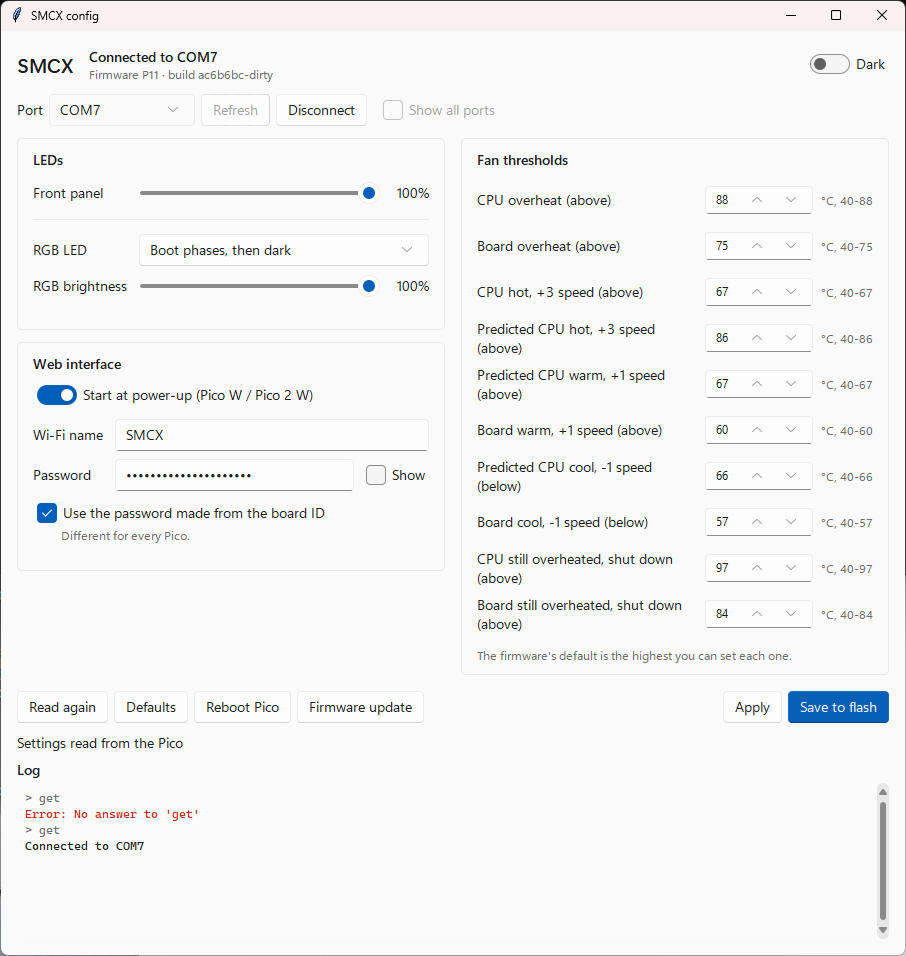
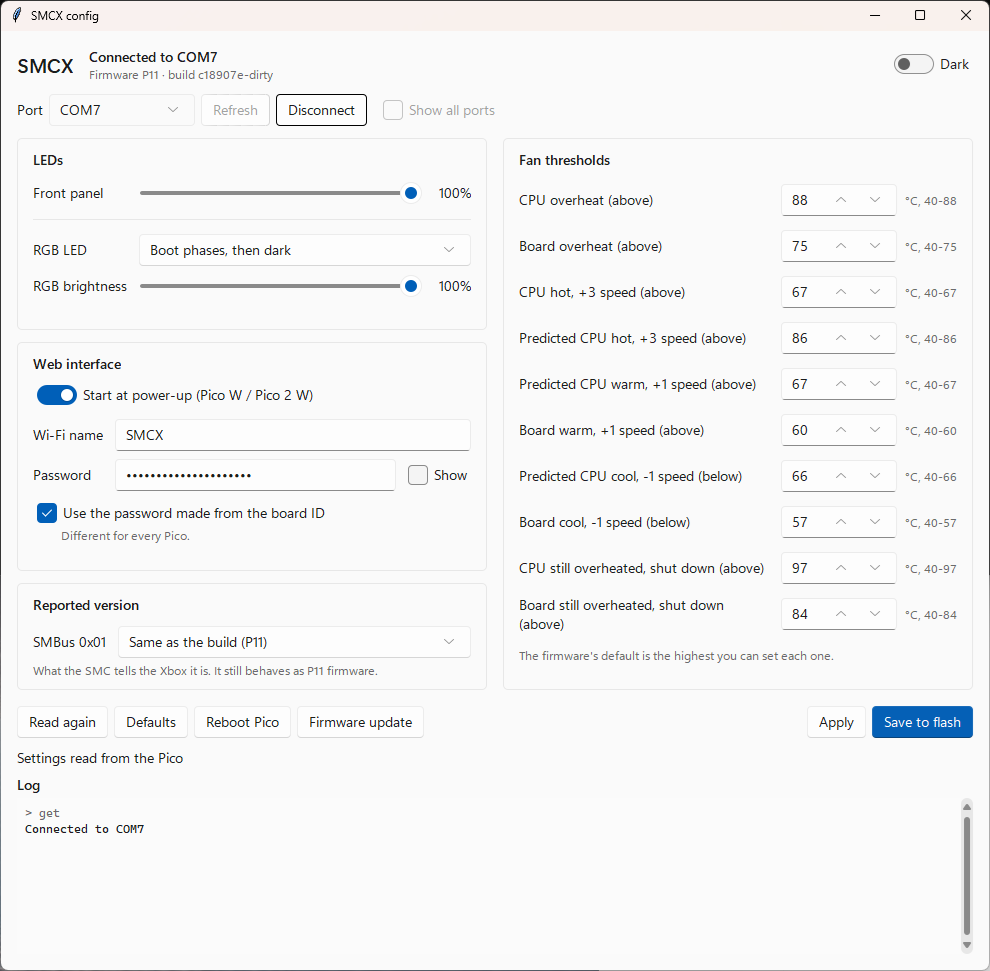
CI fix

diff --git a/tools/smcx_config_gui.py b/tools/smcx_config_gui.py
@@ -1,4 +1,3 @@
-#!/usr/bin/env python3
 """Configure the SMCX over USB serial, in a window.
 
 The same settings as tools/smcx_config.py, with the same rule: only with the
@@ -33,6 +32,27 @@ except ImportError:
 TITLE = "SMCX config"
 
 REPORT_VERSIONS = ("P01", "P11", "D01", "DXF", "P2L")
+
+# The P01/P11 fan thresholds (src/smc_fan_pic.cpp, threshold_entries) with the
+# P11 defaults, shown before connecting. The rows stay and only take the
+# Pico's values when it has the same list; a P2L firmware has its own.
+PIC_THRESHOLDS = [
+    {"index": i, "label": label, "value": default, "default": default, "min": 40}
+    for i, (label, default) in enumerate(
+        [
+            ("CPU overheat (above)", 88),
+            ("Board overheat (above)", 75),
+            ("CPU hot, +3 speed (above)", 67),
+            ("Predicted CPU hot, +3 speed (above)", 86),
+            ("Predicted CPU warm, +1 speed (above)", 67),
+            ("Board warm, +1 speed (above)", 60),
+            ("Predicted CPU cool, -1 speed (below)", 66),
+            ("Board cool, -1 speed (below)", 57),
+            ("CPU still overheated, shut down (above)", 97),
+            ("Board still overheated, shut down (above)", 84),
+        ]
+    )
+]
 
 RGB_MODE_NAMES = {
     "off": "Off, even while booting",
@@ -251,7 +271,7 @@ class App(ttk.Frame):
         self.rgb_note.grid(row=5, column=0, columnspan=3, sticky="w")
 
         # Web interface
-        wifi = self.card(left, "Web interface", row=1, column=0)
+        wifi = self.card(left, "Web interface", row=1, column=0, pady=(0, 12))
         self.web = tk.BooleanVar(value=True)
         self.input(
             ttk.Checkbutton(
@@ -293,13 +313,16 @@ class App(ttk.Frame):
         self.web_note = self.muted(wifi, "")
         self.web_note.grid(row=6, column=0, columnspan=3, sticky="w")
 
-        right = ttk.Frame(self)
-        right.grid(row=2, column=1, sticky="nsew", padx=(8, 0))
-        right.columnconfigure(0, weight=1)
-        right.rowconfigure(0, weight=1)
+        # Version reported to the Xbox on SMBus 0x01
+        xbox = self.card(left, "Reported version", row=2, column=0)
+        ttk.Label(xbox, text="SMBus 0x01").grid(row=1, column=0, sticky="w", padx=(0, 12))
+        self.report_version = self.input(ttk.Combobox(xbox, state="readonly", width=24))
+        self.report_version.grid(row=1, column=1, columnspan=2, sticky="ew", pady=4)
+        self.report_version_note = self.muted(xbox, "What the SMC tells the Xbox it is.", wraplength=360)
+        self.report_version_note.grid(row=2, column=0, columnspan=3, sticky="w")
 
-        # Fan thresholds, filled in by show_settings()
-        self.fan = self.card(right, "Fan thresholds", row=0, column=0, pady=(0, 12))
+        # Fan thresholds: the P01/P11 ones until the Pico says otherwise
+        self.fan = self.card(self, "Fan thresholds", row=2, column=1, padx=(8, 0))
         self.fan_rows = ttk.Frame(self.fan)
         self.fan_rows.grid(row=1, column=0, columnspan=3, sticky="nsew")
         self.fan_rows.columnconfigure(0, weight=1)
@@ -307,16 +330,9 @@ class App(ttk.Frame):
         self.fan_wrap_job = None  # Pending re-wrap (after())
         self.fan_wrap_width = None  # Width the labels were last wrapped to
         self.fan_rows.bind("<Configure>", self.schedule_fan_wrap)
-        self.muted(self.fan_rows, "Connect to read them.").grid(row=0, column=0, sticky="w")
         self.thresholds = []  # (index, IntVar, min, default, value read)
-
-        # Version reported to the Xbox on SMBus 0x01
-        xbox = self.card(right, "Reported version", row=1, column=0)
-        ttk.Label(xbox, text="SMBus 0x01").grid(row=1, column=0, sticky="w", padx=(0, 12))
-        self.report_version = self.input(ttk.Combobox(xbox, state="readonly", width=24))
-        self.report_version.grid(row=1, column=1, columnspan=2, sticky="ew", pady=4)
-        self.report_version_note = self.muted(xbox, "What the SMC tells the Xbox it is.", wraplength=360)
-        self.report_version_note.grid(row=2, column=0, columnspan=3, sticky="w")
+        self.fan_rows_shown = []  # (label, Spinbox, range label, IntVar) per threshold
+        self.build_fan_rows(PIC_THRESHOLDS)
 
         # Actions
         actions = ttk.Frame(self)
@@ -595,30 +611,50 @@ class App(ttk.Frame):
         self.password.set(self.typed_password or self.board_password_value)
         self.web_note.configure(text="" if s["web_available"] else "No web interface in this build: kept, but ignored.")
 
+        self.show_thresholds(s["thresholds"])
+        self.update_buttons()
+
+    def show_thresholds(self, thresholds):
+        """The Pico's thresholds: into the rows already there when it has the
+        same ones (P01, P11 and the debug kits), new rows otherwise (P2L)."""
+        if [t["label"] for t in thresholds] != [row[0]["text"] for row in self.fan_rows_shown]:
+            self.build_fan_rows(thresholds)
+            return
+        self.thresholds = []
+        for t, (_, spinbox, limits, var) in zip(thresholds, self.fan_rows_shown):
+            spinbox.configure(from_=t["min"], to=t["default"])
+            var.set(t["value"])
+            limits.configure(text=f"°C, {t['min']}-{t['default']}")
+            self.thresholds.append((t["index"], var, t["min"], t["default"], t["value"]))
+
+    def build_fan_rows(self, thresholds):
+        """One row per threshold: its name, a box for the value and its range"""
         for child in self.fan_rows.winfo_children():
             if child in self.muted_labels:
                 self.muted_labels.remove(child)
             child.destroy()
         self.thresholds = []
+        self.fan_rows_shown = []
         self.fan_labels = []  # (label, whole row width) wrapped to the card's width
-        for row, t in enumerate(s["thresholds"]):
+        for row, t in enumerate(thresholds):
             # Every row as tall as the tallest, so the rows are evenly spaced
             self.fan_rows.rowconfigure(row, uniform="fan")
             label = ttk.Label(self.fan_rows, text=t["label"])
             label.grid(row=row, column=0, sticky="w", pady=4)
             self.fan_labels.append((label, False))
             var = tk.IntVar(value=t["value"])
-            ttk.Spinbox(self.fan_rows, from_=t["min"], to=t["default"], textvariable=var, width=4).grid(
-                row=row, column=1, padx=8, pady=4
-            )
-            self.muted(self.fan_rows, f"°C, {t['min']}-{t['default']}").grid(row=row, column=2, sticky="w", pady=4)
+            spinbox = ttk.Spinbox(self.fan_rows, from_=t["min"], to=t["default"], textvariable=var, width=4)
+            spinbox.grid(row=row, column=1, padx=8, pady=4)
+            limits = self.muted(self.fan_rows, f"°C, {t['min']}-{t['default']}")
+            limits.grid(row=row, column=2, sticky="w", pady=4)
+            self.fan_rows_shown.append((label, spinbox, limits, var))
             self.thresholds.append((t["index"], var, t["min"], t["default"], t["value"]))
         if self.thresholds:
             note = self.muted(self.fan_rows, "The firmware's default is the highest you can set each one.")
             note.grid(row=len(self.thresholds), column=0, columnspan=3, sticky="w", pady=(10, 0))
             self.fan_labels.append((note, True))
+        self.fan_wrap_width = None
         self.wrap_fan_labels()
-        self.update_buttons()
 
     def schedule_fan_wrap(self, event):
         """Re-wraps the threshold names once the resizing pauses. Re-wrapping
@@ -779,16 +815,27 @@ class App(ttk.Frame):
 
 def main():
     root = tk.Tk()
+    # Hidden until it's built: shown at once, the empty window would pop up
+    # small and then grow, once per theme change and layout pass
+    root.withdraw()
     root.title(TITLE)
     try:
         cli.require_pyserial()
     except cli.SmcError as e:
-        root.withdraw()
         messagebox.showerror(TITLE, str(e))
         return
     app = App(root)
     root.protocol("WM_DELETE_WINDOW", app.close)
     root.minsize(860, 600)
+    # A fixed size from the start: left to follow its contents, the window
+    # would change size again as the threshold names re-wrap, on connecting
+    # and whenever the status line changes. It can still be resized by hand.
+    # Kept on the screen (the log shrinks first), with room for the taskbar.
+    root.update_idletasks()
+    width = min(max(root.winfo_reqwidth(), 860), root.winfo_screenwidth() - 40)
+    height = min(max(root.winfo_reqheight(), 600), root.winfo_screenheight() - 100)
+    root.geometry(f"{width}x{height}")
+    root.deiconify()
     root.mainloop()
 
 

diff --git a/tools/wiring_svg.py b/tools/wiring_svg.py
@@ -1,4 +1,3 @@
-#!/usr/bin/env python3
 """Generates docs/images/wiring.svg: Pico and PIC footprints with net labels.
 
 Run from the project root: python tools/wiring_svg.py docs/images/wiring.svg

diff --git a/tools/smcx_config.py b/tools/smcx_config.py
@@ -1,4 +1,3 @@
-#!/usr/bin/env python3
 """Configure the SMCX over USB serial.
 
 Only works with the Pico out of the Xbox, powered from USB alone: it then
